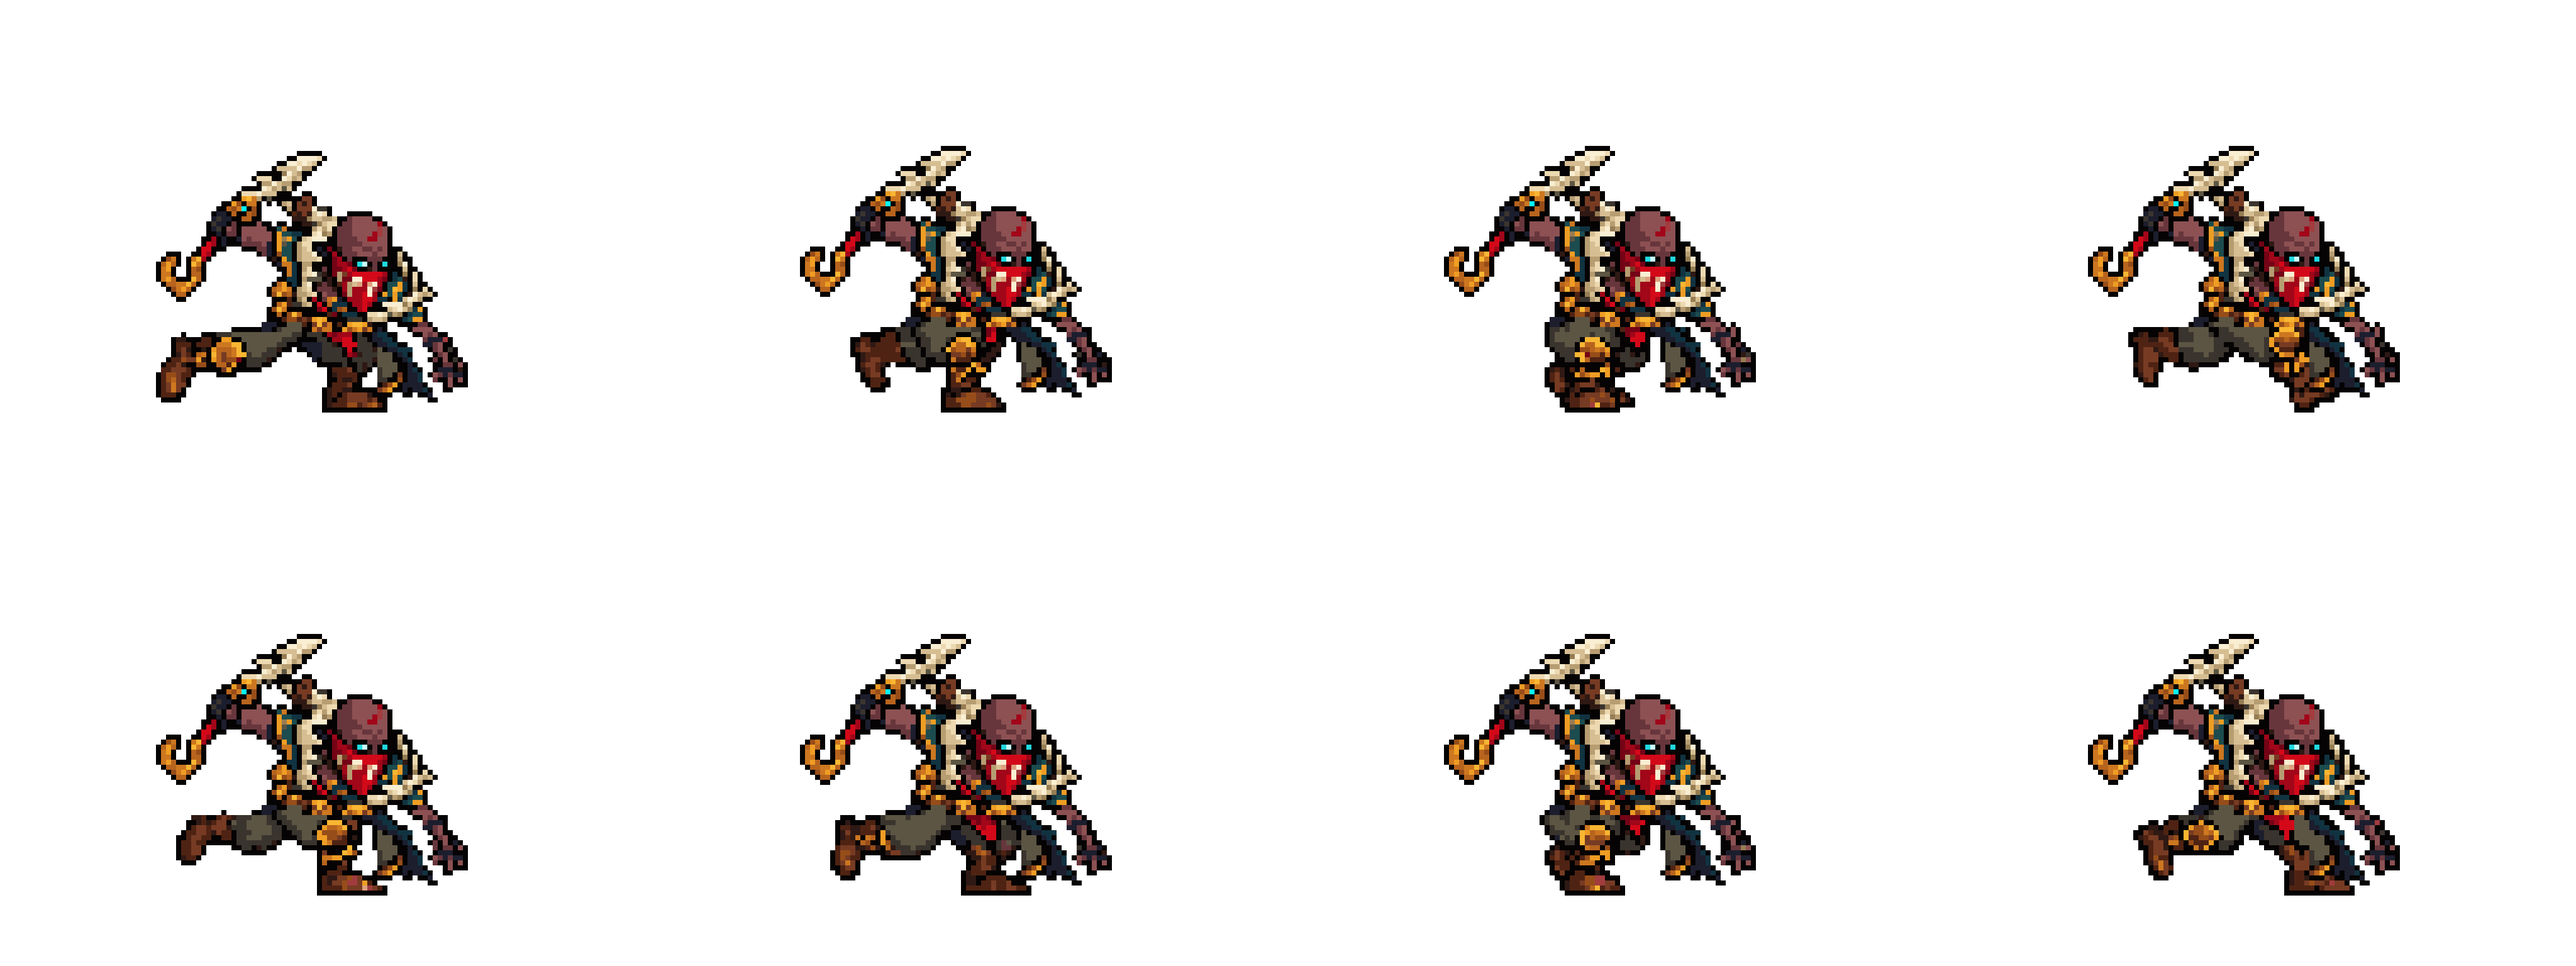
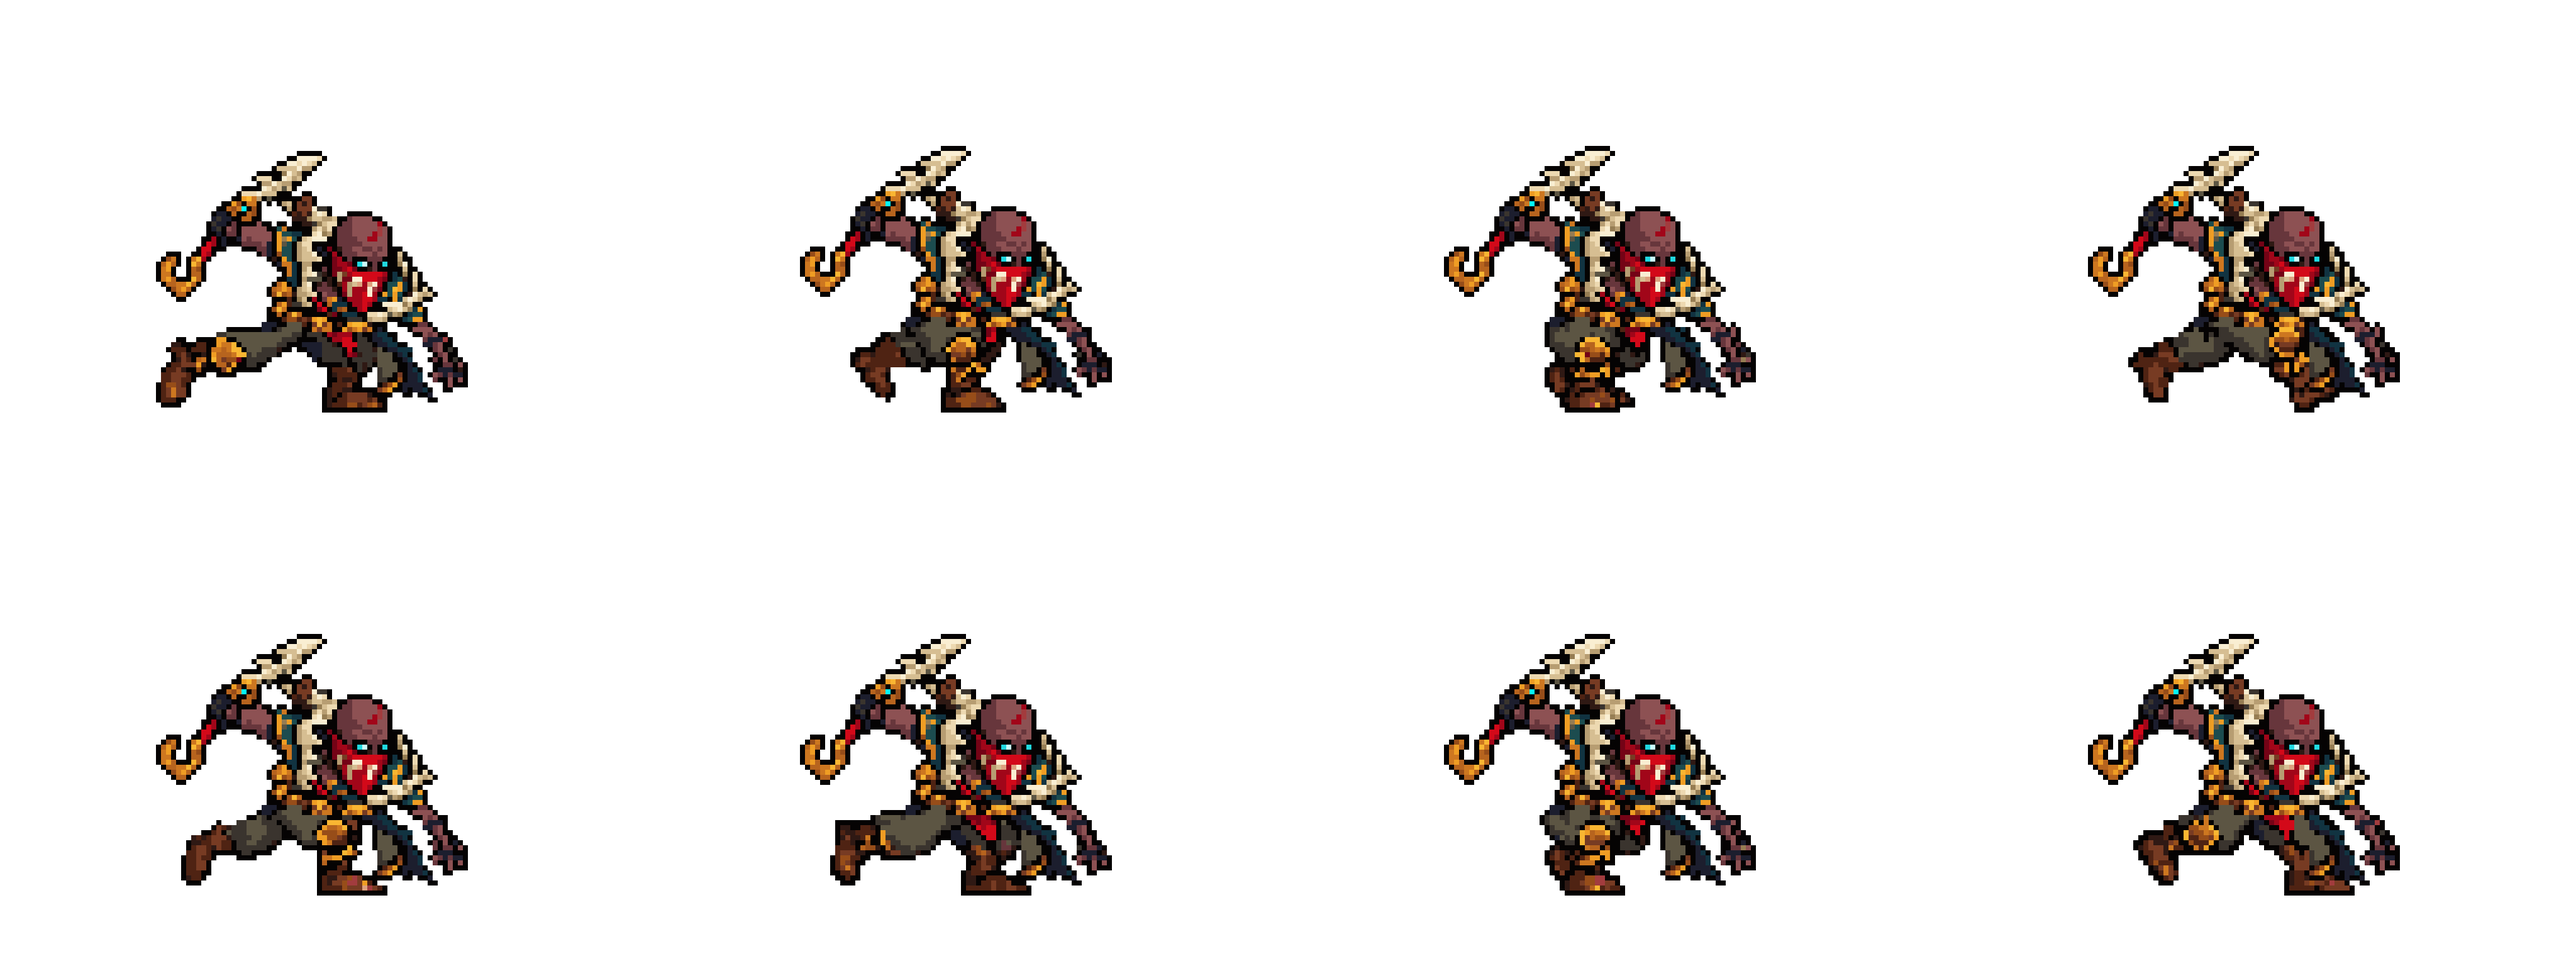
Pyke: the run's trailing leg turned down to the ground (「这里腿都歪了吧？？」)
Codex drew the leg kicked back level, the boot hanging in the air; it is turned whole about the hip (RotSprite, no bend)
until the boot is near the ground.

diff --git a/tools/art/rig_pyke.py b/tools/art/rig_pyke.py
@@ -54,6 +54,8 @@ RAISED = (63.5, 59.5)                  # where the shoulder joint sits when the 
 
 RUN_RAW = os.path.join(ROOT, "assets", "source", "pyke", "codex_run", "raw", "pyke_run_phase_fix_raw.png")
 RUN_PITCH, RUN_SEAM = 4.87, 83
+TRAIL_HIP, TRAIL_X, TRAIL_FROM = (55.5, 86.5), 54, 44     # the trailing leg: hip joint, columns left of TRAIL_X,
+                                                            # turned down when it reaches out past TRAIL_FROM
 
 
 def read_run(palette):
@@ -202,6 +204,7 @@ class Rig:
             K.put(out, hang, dx, at)
             K.put(out, up, dx, at)
             keep = K.shifted(hm4, dx, at)[..., 3] > 0
+            out = self.trail_down(out, at)
             f = K.finish(out, self.out, SOLES, keep=keep)
             for comp in K.pieces(f)[1:]:
                 if len(comp) < 12:
@@ -209,6 +212,36 @@ class Rig:
                         f[y, x] = 0
             frames.append(f)
         return frames
+
+    def trail_down(self, f, at):
+        """The leg kicked back level behind him (Codex drew the trailing thigh flat, the boot hanging in the air:
+        「这里腿都歪了吧？？」) turned down whole about the hip (RotSprite, no bend) until its boot is near the ground."""
+        hip = (TRAIL_HIP[0], TRAIL_HIP[1] + at)
+        m = np.zeros(f.shape[:2], bool)
+        m[RUN_SEAM + at:, :TRAIL_X + 1] = True          # all of it under the upper body (no strip left at the hip)
+        m &= f[..., 3] > 0
+        ys, xs = np.nonzero(m)
+        if not len(xs) or xs.min() > TRAIL_FROM:      # no leg out behind him
+            return f
+        leg = K.Part.from_canvas(f, m, hip)
+        rest = f.copy()
+        rest[m] = 0
+        p = None
+        for deg in range(5, 61, 5):                  # counter-clockwise: a leg pointing back (left) swings down
+            q = K.turn(leg, deg)
+            py = np.nonzero(q.s[..., 3].any(1))[0]
+            low = int(np.floor(hip[1] - q.j[1] + 1e-9)) + int(py.max())
+            if low > SOLES:
+                break
+            p = q
+            if low >= SOLES - 2:
+                break
+        if p is None:
+            return f
+        out = np.zeros_like(f)
+        K.place(out, p, hip)
+        K.put(out, rest, 0, 0)
+        return out
 
     def build(self):
         S = self.stand
